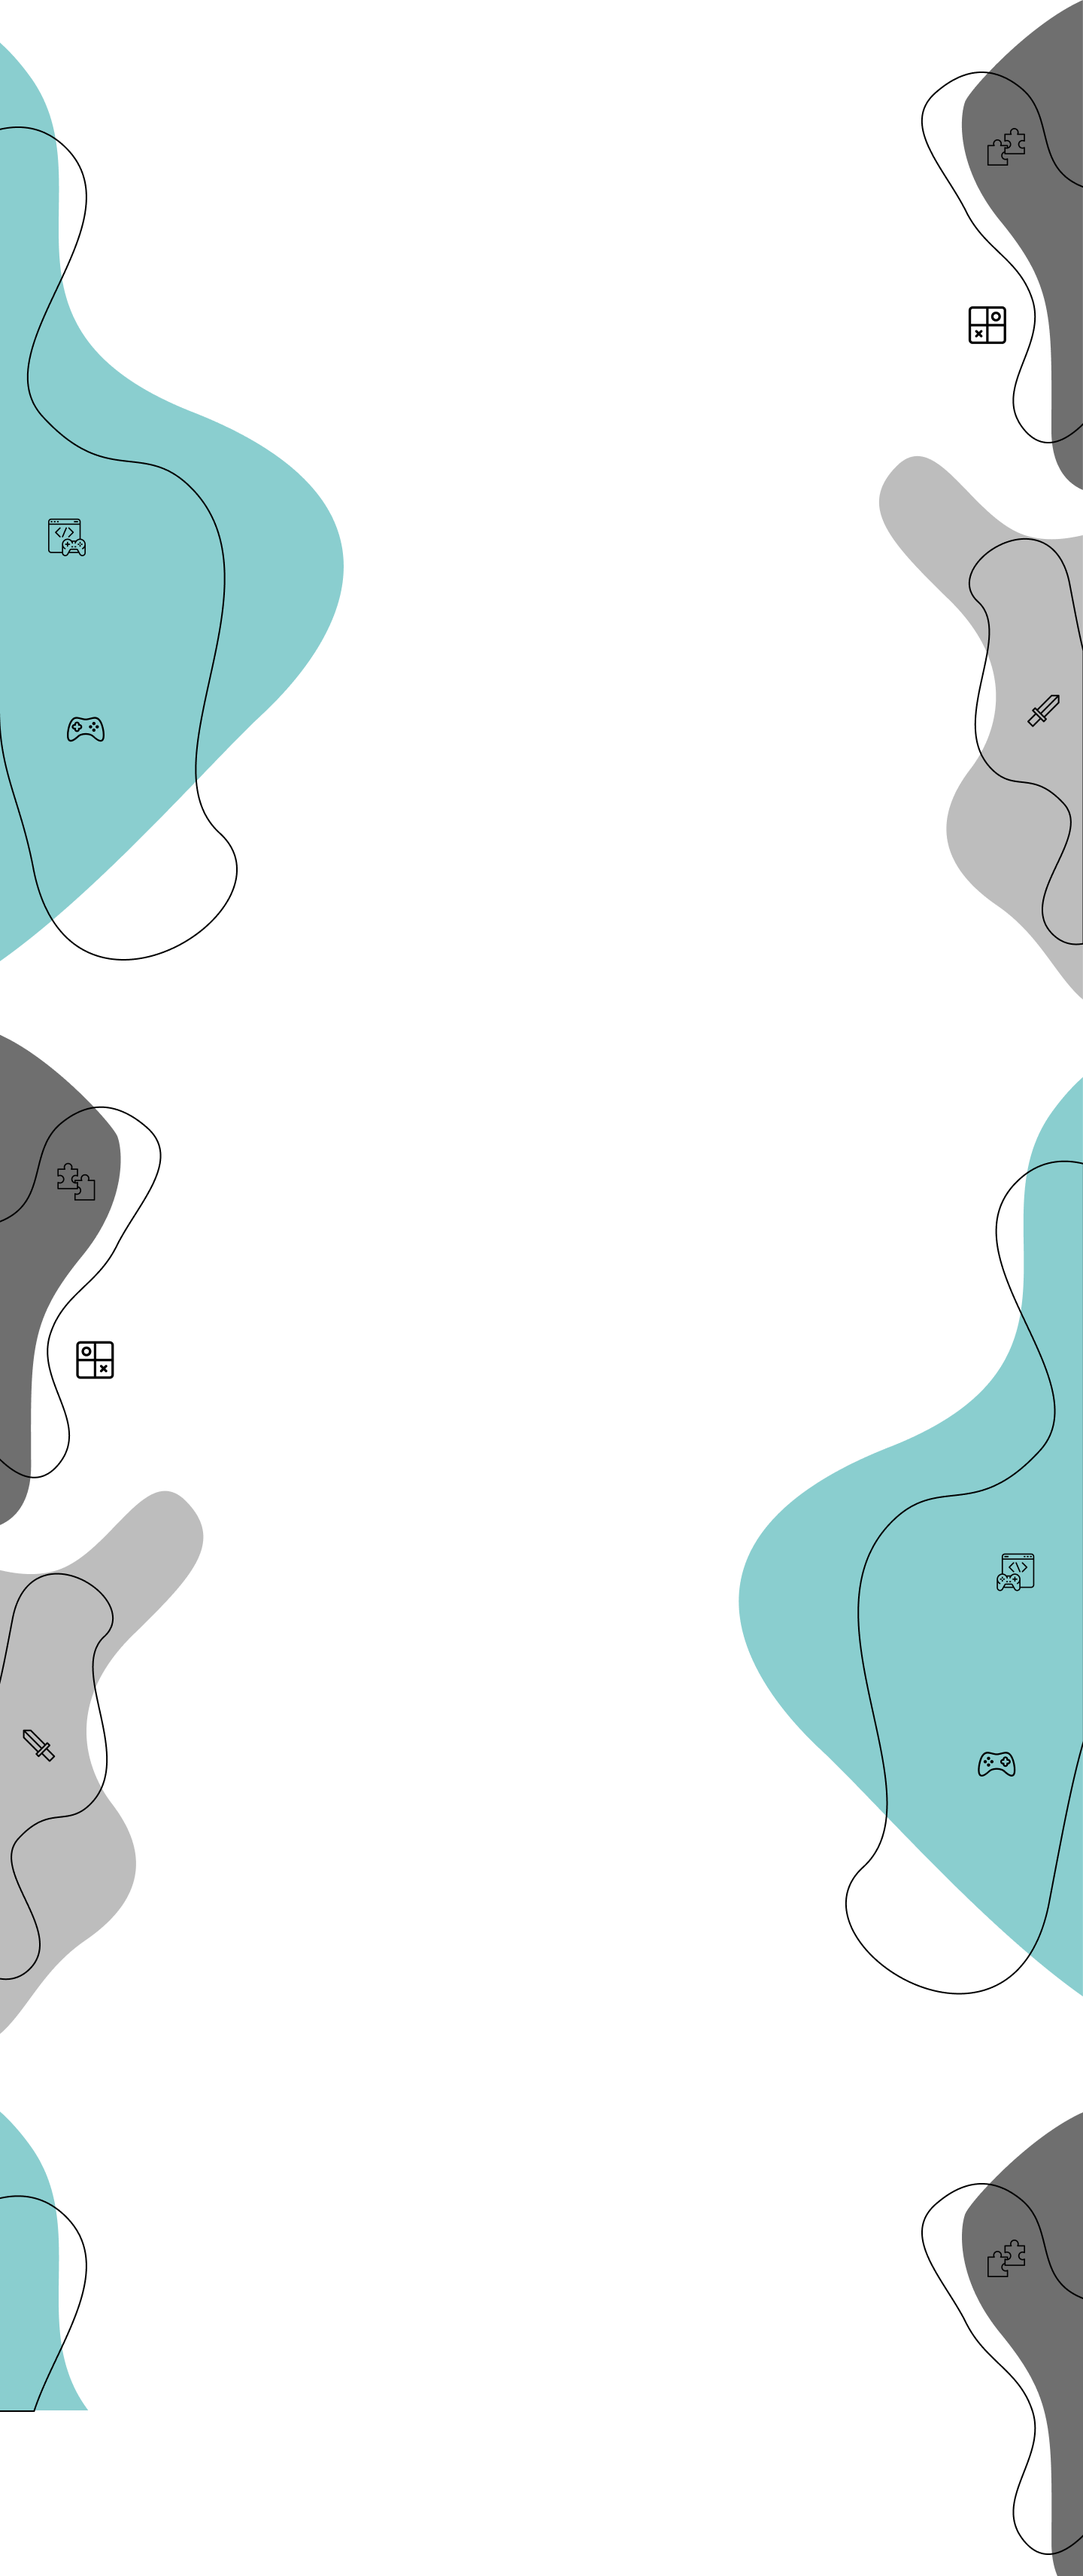
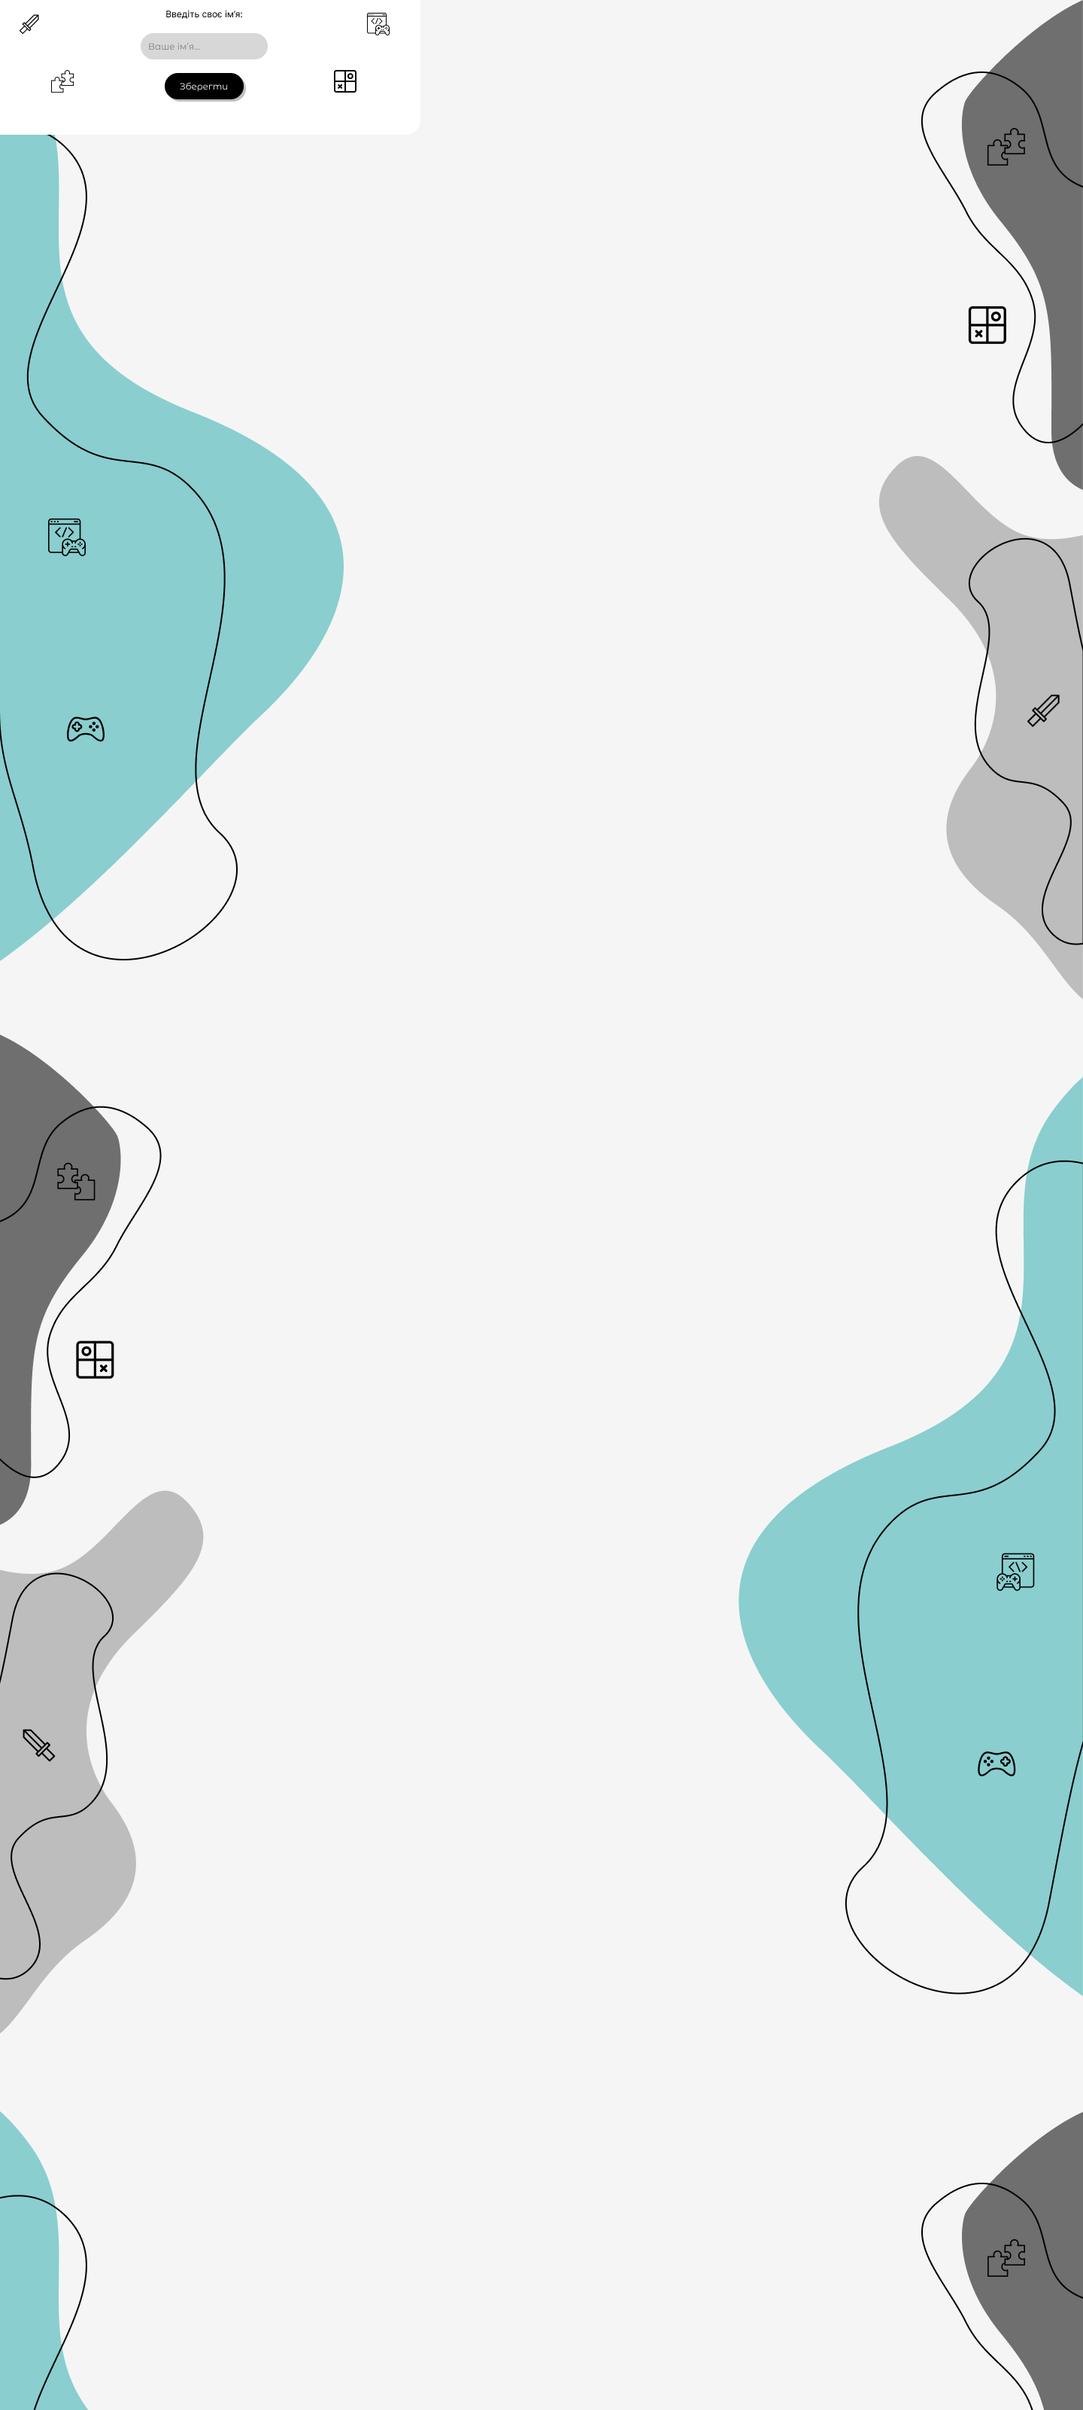
fix bg, made it good

diff --git a/src/sass/global/_global.scss b/src/sass/global/_global.scss
@@ -33,6 +33,7 @@ main {
   background-image: url('/src/images/background.png');
   background-size: cover;
   margin: 0 auto;
+  background-color: $mainBackground;
 }
 
 .title {
@@ -68,6 +69,12 @@ input {
     left: 50%;
 
     transform: translate(-50%, -50%);
+  }
+}
+
+section:nth-child(10) .game__container {
+  &::after {
+    display: none;
   }
 }
 

diff --git a/src/sass/utils/_variables.scss b/src/sass/utils/_variables.scss
@@ -13,6 +13,7 @@ $colorBackdrop: #00000071;
 $modalDinosaur: #787878a7;
 $shadow: rgba(0, 0, 0, 0.25);
 $soccerField: #5abb58;
+$mainBackground: #f0f0f0;
 // fonts
 $fontTextPrimary: 'Montserrat Alternates', sans-serif;
 $fontTextSecondary: 'Inter', sans-serif;

diff --git a/src/sass/components/_google-dinosaur.scss b/src/sass/components/_google-dinosaur.scss
@@ -34,9 +34,6 @@
   animation: moveObstacle 2s linear infinite;
 }
 
-.google-dinosaur {
-}
-
 .dinosaur {
   &__modal {
     position: absolute;
